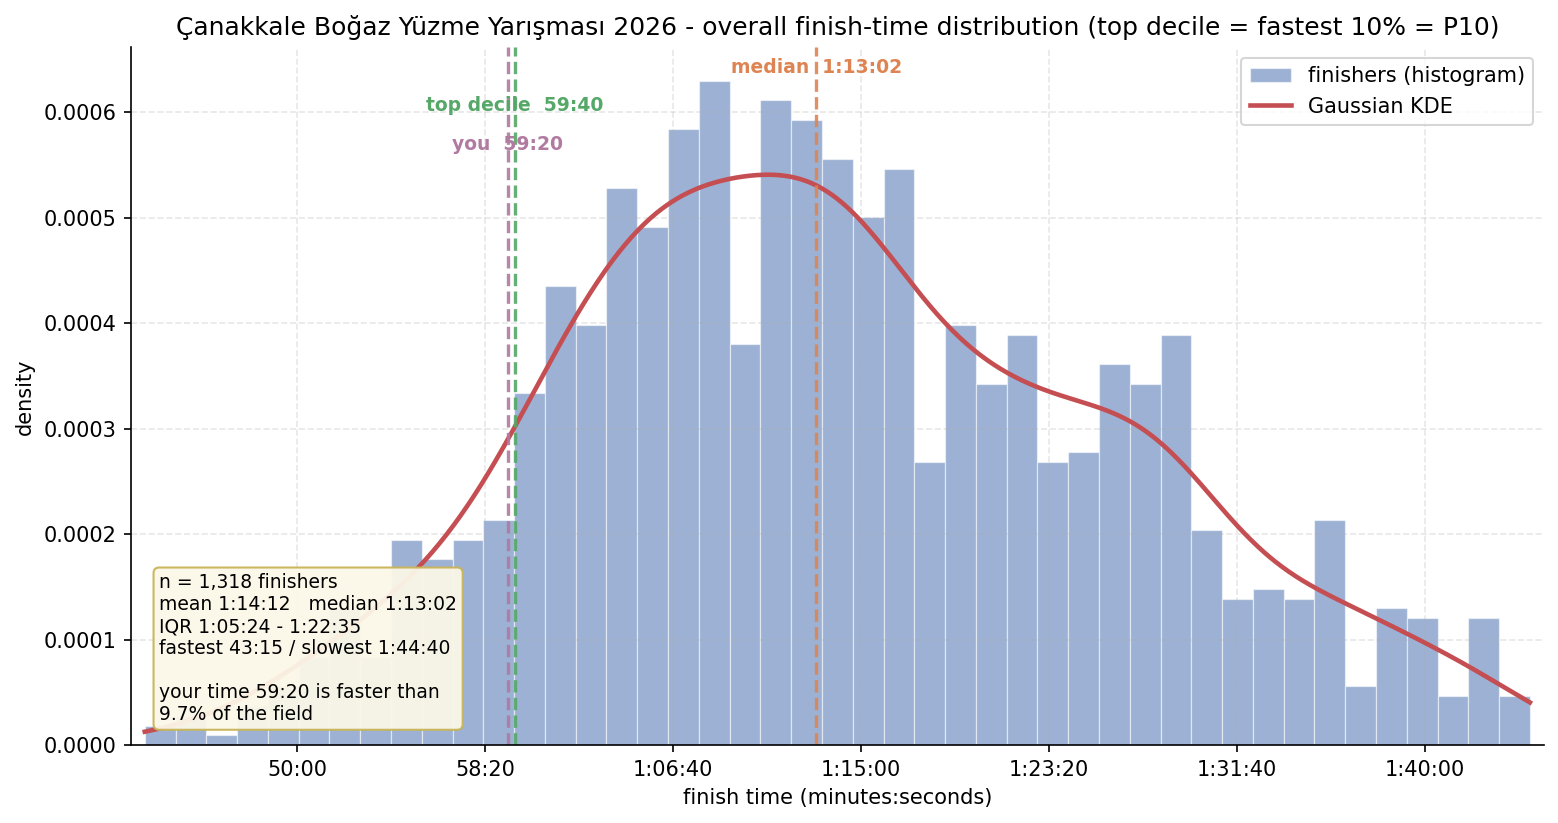
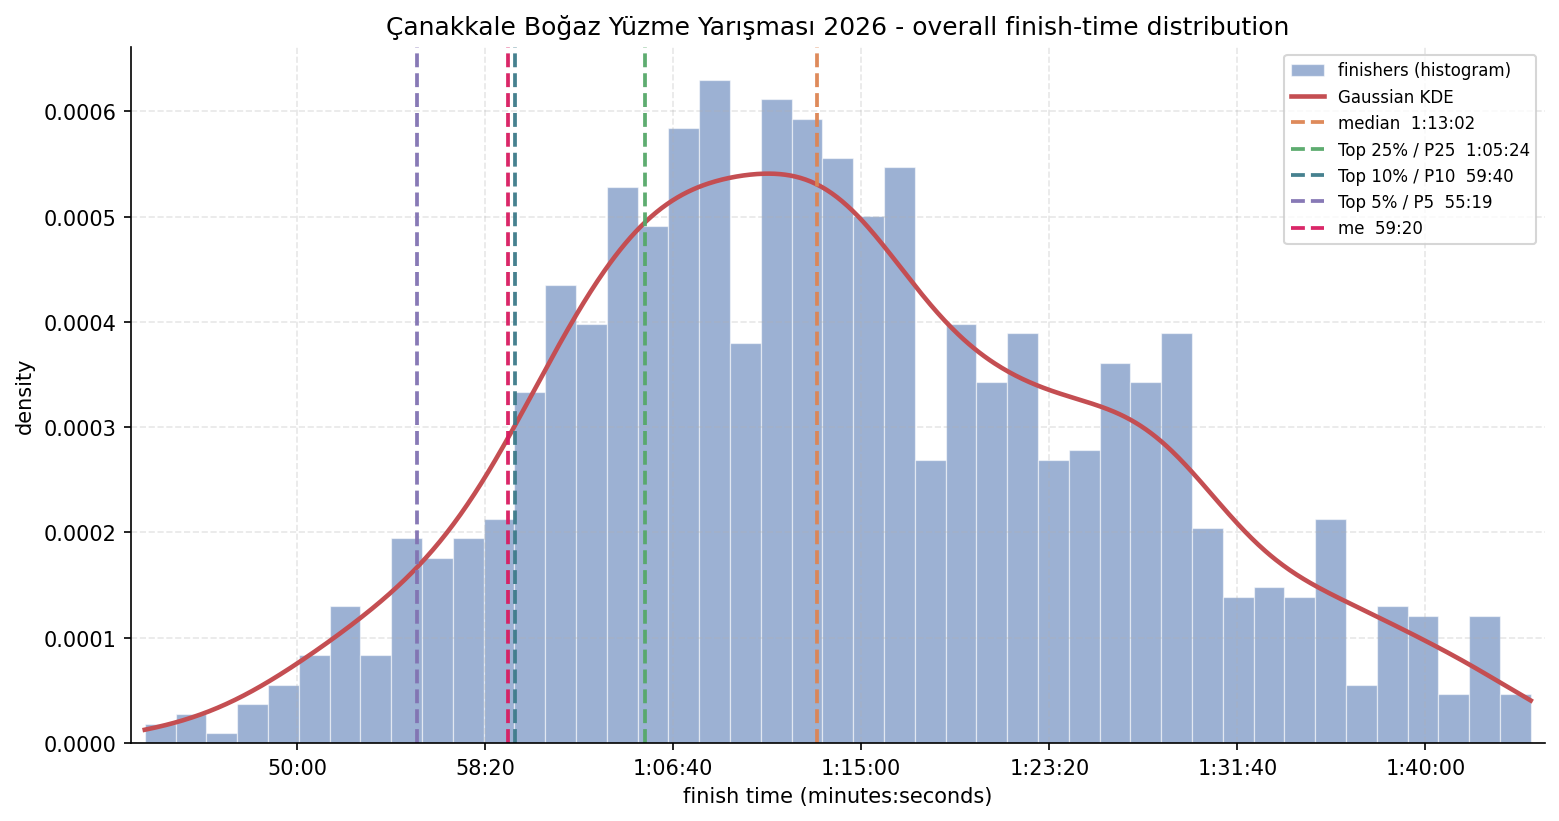
chore(canakkale): update result visualizations and clean up plotting code

diff --git a/2026/canakkale/visualize_results.py b/2026/canakkale/visualize_results.py
@@ -110,11 +110,10 @@ matplotlib.rcParams.update({
 
 def view1_distribution(df, cfg, user, out_dir, show):
     times = df["swim_seconds"].to_numpy(dtype=float)
-    n = times.size
     median = float(np.median(times))
-    top_decile = float(np.percentile(times, 10))
-    mean = float(np.mean(times))
-    p25, p75 = np.percentile(times, [25, 75])
+    p5 = float(np.percentile(times, 5))
+    p10 = float(np.percentile(times, 10))
+    p25 = float(np.percentile(times, 25))
     my_seconds = user["seconds"]
 
     fig, ax = plt.subplots(figsize=(10.5, 5.6))
@@ -125,35 +124,20 @@ def view1_distribution(df, cfg, user, out_dir, show):
     ax.plot(x, gaussian_kde_pdf(x, times), color="#C44E52", lw=2.2,
             label="Gaussian KDE")
 
-    y_top = float(np.max(ax.get_ylim()))
     refs = [
-        (median,     "#DD8452", f"median  {fmt_time(median)}", 0.985),
-        (top_decile, "#55A868", f"top decile  {fmt_time(top_decile)}", 0.930),
-        (my_seconds, "#B07AA1", f"you  {fmt_time(my_seconds)}", 0.875),
+        (median,     "#DD8452", f"median  {fmt_time(median)}"),
+        (p25,        "#55A868", f"Top 25% / P25  {fmt_time(p25)}"),
+        (p10,        "#3C7A89", f"Top 10% / P10  {fmt_time(p10)}"),
+        (p5,         "#8172B2", f"Top 5% / P5  {fmt_time(p5)}"),
+        (my_seconds, "#D81B60", f"me  {fmt_time(my_seconds)}"),
     ]
-    for val, color, lab, yf in refs:
-        ax.axvline(val, color=color, ls="--", lw=1.6, alpha=0.9)
-        ax.text(val, y_top * yf, lab, color=color, ha="center", va="top",
-                fontsize=9, fontweight="bold")
-
-    pct_my = 100.0 * float((times <= my_seconds).mean())
-    stats = (
-        f"n = {n:,} finishers\n"
-        f"mean {fmt_time(mean)}   median {fmt_time(median)}\n"
-        f"IQR {fmt_time(p25)} - {fmt_time(p75)}\n"
-        f"fastest {fmt_time(times.min())} / slowest {fmt_time(times.max())}\n\n"
-        f"your time {fmt_time(my_seconds)} is faster than\n"
-        f"{pct_my:.1f}% of the field"
-    )
-    ax.text(0.02, 0.03, stats, transform=ax.transAxes, ha="left", va="bottom",
-            fontsize=9, bbox=dict(boxstyle="round", facecolor="#FBF7E8",
-                                  edgecolor="#C9B458", alpha=0.95))
+    for val, color, lab in refs:
+        ax.axvline(val, color=color, ls="--", lw=1.8, alpha=0.95, label=lab)
 
     ax.set_xlabel("finish time (minutes:seconds)")
     ax.set_ylabel("density")
-    ax.set_title(f"{cfg.name} - overall finish-time distribution "
-                 "(top decile = fastest 10% = P10)")
-    ax.legend(loc="upper right", frameon=True)
+    ax.set_title(f"{cfg.name} - overall finish-time distribution")
+    ax.legend(loc="upper right", frameon=True, fontsize=8)
     ax.margins(x=0.01)
     fig.tight_layout()
 
@@ -165,7 +149,7 @@ def view1_distribution(df, cfg, user, out_dir, show):
     plt.close(fig)
     status = "saved" if not show else "shown (not saved)"
     print(f"  [1/5] {path.name}  [{status}]  (median {fmt_time(median)}, "
-          f"top decile {fmt_time(top_decile)})")
+          f"P5 {fmt_time(p5)}, P10 {fmt_time(p10)}, P25 {fmt_time(p25)})")
     return path
 
 def _draw_violin(ax, data, pos, color, width):
@@ -196,7 +180,7 @@ def view2_age_gender(df, cfg, user, out_dir, show):
     if row is not None:
         hl = (str(row["gender"]).strip().upper(), age_band(row["age_group"]))
         hl_label = {"M": "Male", "F": "Female"}.get(hl[0], hl[0]) + f" {hl[1]}"
-        hl_note = f"\u25c6 = {hl_label}, your bracket"
+        hl_note = f"\u25c6 = {hl_label}, my bracket"
     elif cfg.owner_highlight:
         hl = cfg.owner_highlight
         hl_label = {"M": "Male", "F": "Female"}.get(hl[0], hl[0]) + f" {hl[1]}"
@@ -229,8 +213,7 @@ def view2_age_gender(df, cfg, user, out_dir, show):
     ax.set_xticklabels(bands)
     ax.set_xlabel("age band")
     ax.set_ylabel("finish time (minutes:seconds)")
-    ax.set_title(f"{cfg.name} - finish time by age band and gender   "
-                 "(count under each violin)")
+    ax.set_title(f"{cfg.name} - finish time by age band and gender")
 
     handles = [mpatches.Patch(color=male_c, label="Male"),
                mpatches.Patch(color=female_c, label="Female")]
@@ -274,7 +257,7 @@ def view3_ecdf(df, cfg, user, out_dir, show):
     ax.plot([my_seconds, my_seconds], [0, cnt_le / n], color="#B07AA1",
             ls="--", lw=1.5)
     ax.plot([my_seconds], [cnt_le / n], "o", color="#B07AA1", ms=7, zorder=6)
-    ax.annotate(f"you: {fmt_time(my_seconds)}\nfaster than {pct_my:.1f}% "
+    ax.annotate(f"me: {fmt_time(my_seconds)}\nfaster than {pct_my:.1f}% "
                 f"(~rank {rank_my:,} / {n:,})",
                 xy=(my_seconds, cnt_le / n),
                 xytext=(my_seconds + 130, max(0.05, cnt_le / n - 0.20)),
@@ -301,8 +284,7 @@ def view3_ecdf(df, cfg, user, out_dir, show):
     ax.set_ylim(0, 1.02)
     ax.set_yticks([0, 0.25, 0.5, 0.75, 1.0])
     ax.set_yticklabels(["0%", "25%", "50%", "75%", "100%"])
-    ax.set_title(f"{cfg.name} - ECDF: finish time to percentile "
-                 "(steeper = tighter pack)")
+    ax.set_title(f"{cfg.name} - ECDF: finish time to percentile")
     q25, q75 = np.percentile(times, [25, 75])
     ax.text(0.985, 0.03,
             f"50% of finishers between {fmt_time(q25)} and {fmt_time(q75)}",
@@ -400,7 +382,7 @@ def view5_gender_kde(df, cfg, user, out_dir, show):
     x = np.linspace(df["swim_seconds"].min(), df["swim_seconds"].max(), 800)
     male_c, female_c, my_c = "#4C72B0", "#DD8452", "#B07AA1"
     groups = []
-    for lab, g, color in (("men", "M", male_c), ("women", "F", female_c)):
+    for lab, g, color in (("Male", "M", male_c), ("Female", "F", female_c)):
         t = df.loc[df["gender"] == g, "swim_seconds"].to_numpy(dtype=float)
         if t.size > 0:
             groups.append((lab, t, color, gaussian_kde_pdf(x, t)))
@@ -420,15 +402,15 @@ def view5_gender_kde(df, cfg, user, out_dir, show):
         med = float(np.median(t))
         ax.axvline(med, color=color, ls="--", lw=1.8, alpha=0.9, zorder=4)
         y_at = float(np.interp(med, x, pdf))
-        offset = -18 if lab == "men" else 18
-        ha = "right" if lab == "men" else "left"
+        offset = -18 if lab == "Male" else 18
+        ha = "right" if lab == "Male" else "left"
         ax.text(med + offset, y_at, f"{lab} median  {fmt_time(med)}",
                 color=color, ha=ha, va="bottom", fontsize=9,
                 fontweight="bold", zorder=5)
 
     ax.axvline(my_seconds, color=my_c, ls=":", lw=2.0, alpha=0.6, zorder=4)
-    y_you = max(float(np.interp(my_seconds, x, pdf)) for _, _, _, pdf in groups)
-    ax.text(my_seconds, y_you, f"you  {fmt_time(my_seconds)}", color=my_c,
+    y_me = max(float(np.interp(my_seconds, x, pdf)) for _, _, _, pdf in groups)
+    ax.text(my_seconds, y_me, f"me  {fmt_time(my_seconds)}", color=my_c,
             ha="center", va="bottom", fontsize=9, fontstyle="italic", zorder=5)
 
     pcts = {lab: 100.0 * float((t <= my_seconds).mean())
@@ -437,9 +419,9 @@ def view5_gender_kde(df, cfg, user, out_dir, show):
                    for lab, t, _, _ in groups]
     if len(groups) == 2:
         gap = float(np.median(groups[1][1])) - float(np.median(groups[0][1]))
-        stats_lines.append(f"median gap: women {gap:.0f}s slower")
+        stats_lines.append(f"median gap: Female {gap:.0f}s slower")
     stats_lines.append("")
-    stats_lines.append(f"your time {fmt_time(my_seconds)} is faster than")
+    stats_lines.append(f"my time {fmt_time(my_seconds)} is faster than")
     stats_lines.append("   ".join(f"{pcts[lab]:.1f}% of {lab}"
                                   for lab, _, _, _ in groups))
     ax.text(0.985, 0.03, "\n".join(stats_lines), transform=ax.transAxes,
@@ -449,9 +431,7 @@ def view5_gender_kde(df, cfg, user, out_dir, show):
 
     ax.set_xlabel("finish time (minutes:seconds)")
     ax.set_ylabel("density")
-    ax.set_title(f"{cfg.name} - men vs. women finish-time density\n"
-                 "(semi-transparent KDEs dashed = group median, "
-                 "dotted = your time)")
+    ax.set_title(f"{cfg.name} - male vs female finish-time density")
     ax.legend(loc="upper right", frameon=True)
     ax.margins(x=0.01)
     fig.tight_layout()
@@ -477,7 +457,7 @@ def run(cfg, bib, time_override, show):
     print("=" * 66)
     print(f"finishers (FINISHED, valid time) : {len(df):,}")
     print(df["gender"].value_counts().to_string())
-    print(f"your result : {user['label']}   ->   {fmt_time(user['seconds'])}")
+    print(f"my result : {user['label']}   ->   {fmt_time(user['seconds'])}")
 
     out_dir = cfg.output_dir
     out_dir.mkdir(parents=True, exist_ok=True)

diff --git a/2026/istanbul/visualize_results.py b/2026/istanbul/visualize_results.py
@@ -110,11 +110,10 @@ matplotlib.rcParams.update({
 
 def view1_distribution(df, cfg, user, out_dir, show):
     times = df["swim_seconds"].to_numpy(dtype=float)
-    n = times.size
     median = float(np.median(times))
-    top_decile = float(np.percentile(times, 10))
-    mean = float(np.mean(times))
-    p25, p75 = np.percentile(times, [25, 75])
+    p5 = float(np.percentile(times, 5))
+    p10 = float(np.percentile(times, 10))
+    p25 = float(np.percentile(times, 25))
     my_seconds = user["seconds"]
 
     fig, ax = plt.subplots(figsize=(10.5, 5.6))
@@ -125,35 +124,20 @@ def view1_distribution(df, cfg, user, out_dir, show):
     ax.plot(x, gaussian_kde_pdf(x, times), color="#C44E52", lw=2.2,
             label="Gaussian KDE")
 
-    y_top = float(np.max(ax.get_ylim()))
     refs = [
-        (median,     "#DD8452", f"median  {fmt_time(median)}", 0.985),
-        (top_decile, "#55A868", f"top decile  {fmt_time(top_decile)}", 0.930),
-        (my_seconds, "#B07AA1", f"you  {fmt_time(my_seconds)}", 0.875),
+        (median,     "#DD8452", f"median  {fmt_time(median)}"),
+        (p25,        "#55A868", f"Top 25% / P25  {fmt_time(p25)}"),
+        (p10,        "#3C7A89", f"Top 10% / P10  {fmt_time(p10)}"),
+        (p5,         "#8172B2", f"Top 5% / P5  {fmt_time(p5)}"),
+        (my_seconds, "#D81B60", f"me  {fmt_time(my_seconds)}"),
     ]
-    for val, color, lab, yf in refs:
-        ax.axvline(val, color=color, ls="--", lw=1.6, alpha=0.9)
-        ax.text(val, y_top * yf, lab, color=color, ha="center", va="top",
-                fontsize=9, fontweight="bold")
-
-    pct_my = 100.0 * float((times <= my_seconds).mean())
-    stats = (
-        f"n = {n:,} finishers\n"
-        f"mean {fmt_time(mean)}   median {fmt_time(median)}\n"
-        f"IQR {fmt_time(p25)} - {fmt_time(p75)}\n"
-        f"fastest {fmt_time(times.min())} / slowest {fmt_time(times.max())}\n\n"
-        f"your time {fmt_time(my_seconds)} is faster than\n"
-        f"{pct_my:.1f}% of the field"
-    )
-    ax.text(0.02, 0.03, stats, transform=ax.transAxes, ha="left", va="bottom",
-            fontsize=9, bbox=dict(boxstyle="round", facecolor="#FBF7E8",
-                                  edgecolor="#C9B458", alpha=0.95))
+    for val, color, lab in refs:
+        ax.axvline(val, color=color, ls="--", lw=1.8, alpha=0.95, label=lab)
 
     ax.set_xlabel("finish time (minutes:seconds)")
     ax.set_ylabel("density")
-    ax.set_title(f"{cfg.name} - overall finish-time distribution "
-                 "(top decile = fastest 10% = P10)")
-    ax.legend(loc="upper right", frameon=True)
+    ax.set_title(f"{cfg.name} - overall finish-time distribution")
+    ax.legend(loc="upper right", frameon=True, fontsize=8)
     ax.margins(x=0.01)
     fig.tight_layout()
 
@@ -165,7 +149,7 @@ def view1_distribution(df, cfg, user, out_dir, show):
     plt.close(fig)
     status = "saved" if not show else "shown (not saved)"
     print(f"  [1/5] {path.name}  [{status}]  (median {fmt_time(median)}, "
-          f"top decile {fmt_time(top_decile)})")
+          f"P5 {fmt_time(p5)}, P10 {fmt_time(p10)}, P25 {fmt_time(p25)})")
     return path
 
 def _draw_violin(ax, data, pos, color, width):
@@ -196,7 +180,7 @@ def view2_age_gender(df, cfg, user, out_dir, show):
     if row is not None:
         hl = (str(row["gender"]).strip().upper(), age_band(row["age_group"]))
         hl_label = {"M": "Male", "F": "Female"}.get(hl[0], hl[0]) + f" {hl[1]}"
-        hl_note = f"\u25c6 = {hl_label}, your bracket"
+        hl_note = f"\u25c6 = {hl_label}, my bracket"
     elif cfg.owner_highlight:
         hl = cfg.owner_highlight
         hl_label = {"M": "Male", "F": "Female"}.get(hl[0], hl[0]) + f" {hl[1]}"
@@ -229,8 +213,7 @@ def view2_age_gender(df, cfg, user, out_dir, show):
     ax.set_xticklabels(bands)
     ax.set_xlabel("age band")
     ax.set_ylabel("finish time (minutes:seconds)")
-    ax.set_title(f"{cfg.name} - finish time by age band and gender   "
-                 "(count under each violin)")
+    ax.set_title(f"{cfg.name} - finish time by age band and gender")
 
     handles = [mpatches.Patch(color=male_c, label="Male"),
                mpatches.Patch(color=female_c, label="Female")]
@@ -301,8 +284,7 @@ def view3_ecdf(df, cfg, user, out_dir, show):
     ax.set_ylim(0, 1.02)
     ax.set_yticks([0, 0.25, 0.5, 0.75, 1.0])
     ax.set_yticklabels(["0%", "25%", "50%", "75%", "100%"])
-    ax.set_title(f"{cfg.name} - ECDF: finish time to percentile "
-                 "(steeper = tighter pack)")
+    ax.set_title(f"{cfg.name} - ECDF: finish time to percentile")
     q25, q75 = np.percentile(times, [25, 75])
     ax.text(0.985, 0.03,
             f"50% of finishers between {fmt_time(q25)} and {fmt_time(q75)}",
@@ -400,7 +382,7 @@ def view5_gender_kde(df, cfg, user, out_dir, show):
     x = np.linspace(df["swim_seconds"].min(), df["swim_seconds"].max(), 800)
     male_c, female_c, my_c = "#4C72B0", "#DD8452", "#B07AA1"
     groups = []
-    for lab, g, color in (("men", "M", male_c), ("women", "F", female_c)):
+    for lab, g, color in (("Male", "M", male_c), ("Female", "F", female_c)):
         t = df.loc[df["gender"] == g, "swim_seconds"].to_numpy(dtype=float)
         if t.size > 0:
             groups.append((lab, t, color, gaussian_kde_pdf(x, t)))
@@ -420,15 +402,15 @@ def view5_gender_kde(df, cfg, user, out_dir, show):
         med = float(np.median(t))
         ax.axvline(med, color=color, ls="--", lw=1.8, alpha=0.9, zorder=4)
         y_at = float(np.interp(med, x, pdf))
-        offset = -18 if lab == "men" else 18
-        ha = "right" if lab == "men" else "left"
+        offset = -18 if lab == "Male" else 18
+        ha = "right" if lab == "Male" else "left"
         ax.text(med + offset, y_at, f"{lab} median  {fmt_time(med)}",
                 color=color, ha=ha, va="bottom", fontsize=9,
                 fontweight="bold", zorder=5)
 
     ax.axvline(my_seconds, color=my_c, ls=":", lw=2.0, alpha=0.6, zorder=4)
-    y_you = max(float(np.interp(my_seconds, x, pdf)) for _, _, _, pdf in groups)
-    ax.text(my_seconds, y_you, f"you  {fmt_time(my_seconds)}", color=my_c,
+    y_me = max(float(np.interp(my_seconds, x, pdf)) for _, _, _, pdf in groups)
+    ax.text(my_seconds, y_me, f"me  {fmt_time(my_seconds)}", color=my_c,
             ha="center", va="bottom", fontsize=9, fontstyle="italic", zorder=5)
 
     pcts = {lab: 100.0 * float((t <= my_seconds).mean())
@@ -437,9 +419,9 @@ def view5_gender_kde(df, cfg, user, out_dir, show):
                    for lab, t, _, _ in groups]
     if len(groups) == 2:
         gap = float(np.median(groups[1][1])) - float(np.median(groups[0][1]))
-        stats_lines.append(f"median gap: women {gap:.0f}s slower")
+        stats_lines.append(f"median gap: Female {gap:.0f}s slower")
     stats_lines.append("")
-    stats_lines.append(f"your time {fmt_time(my_seconds)} is faster than")
+    stats_lines.append(f"my time {fmt_time(my_seconds)} is faster than")
     stats_lines.append("   ".join(f"{pcts[lab]:.1f}% of {lab}"
                                   for lab, _, _, _ in groups))
     ax.text(0.985, 0.03, "\n".join(stats_lines), transform=ax.transAxes,
@@ -449,9 +431,7 @@ def view5_gender_kde(df, cfg, user, out_dir, show):
 
     ax.set_xlabel("finish time (minutes:seconds)")
     ax.set_ylabel("density")
-    ax.set_title(f"{cfg.name} - men vs. women finish-time density\n"
-                 "(semi-transparent KDEs dashed = group median, "
-                 "dotted = your time)")
+    ax.set_title(f"{cfg.name} - male vs female finish-time density")
     ax.legend(loc="upper right", frameon=True)
     ax.margins(x=0.01)
     fig.tight_layout()
@@ -477,7 +457,7 @@ def run(cfg, bib, time_override, show):
     print("=" * 66)
     print(f"finishers (FINISHED, valid time) : {len(df):,}")
     print(df["gender"].value_counts().to_string())
-    print(f"your result : {user['label']}   ->   {fmt_time(user['seconds'])}")
+    print(f"my result : {user['label']}   ->   {fmt_time(user['seconds'])}")
 
     out_dir = cfg.output_dir
     out_dir.mkdir(parents=True, exist_ok=True)

diff --git a/2026/istanbul/event.py b/2026/istanbul/event.py
@@ -6,7 +6,7 @@ RACE_DIR = Path(__file__).resolve().parent
 
 EVENT = EventConfig(
     key="istanbul_2026",
-    name="Boğaziçi Kıtalararası Yüzme Yarışı 2026 (38.)",
+    name="Boğaziçi Kıtalararası Yüzme Yarışı 2026",
     event_id=413831,
     year=2026,
     distance_m=6500.0,

diff --git a/README.md b/README.md
@@ -9,7 +9,7 @@ py fetch_results.py              # live from RaceResult
 py fetch_results.py --offline    # reuse previously archived data
 
 # Visualization (5 charts saved to output/)
-py visualize_results.py                       # your result (event.py default_bib)
+py visualize_results.py                       # my result (event.py default_bib)
 py visualize_results.py --bib 230             # by bib number
 py visualize_results.py --bib 887 --show      # view someone else's result without changing my default settings
 py visualize_results.py --time 3073           # or by finish time (seconds)
